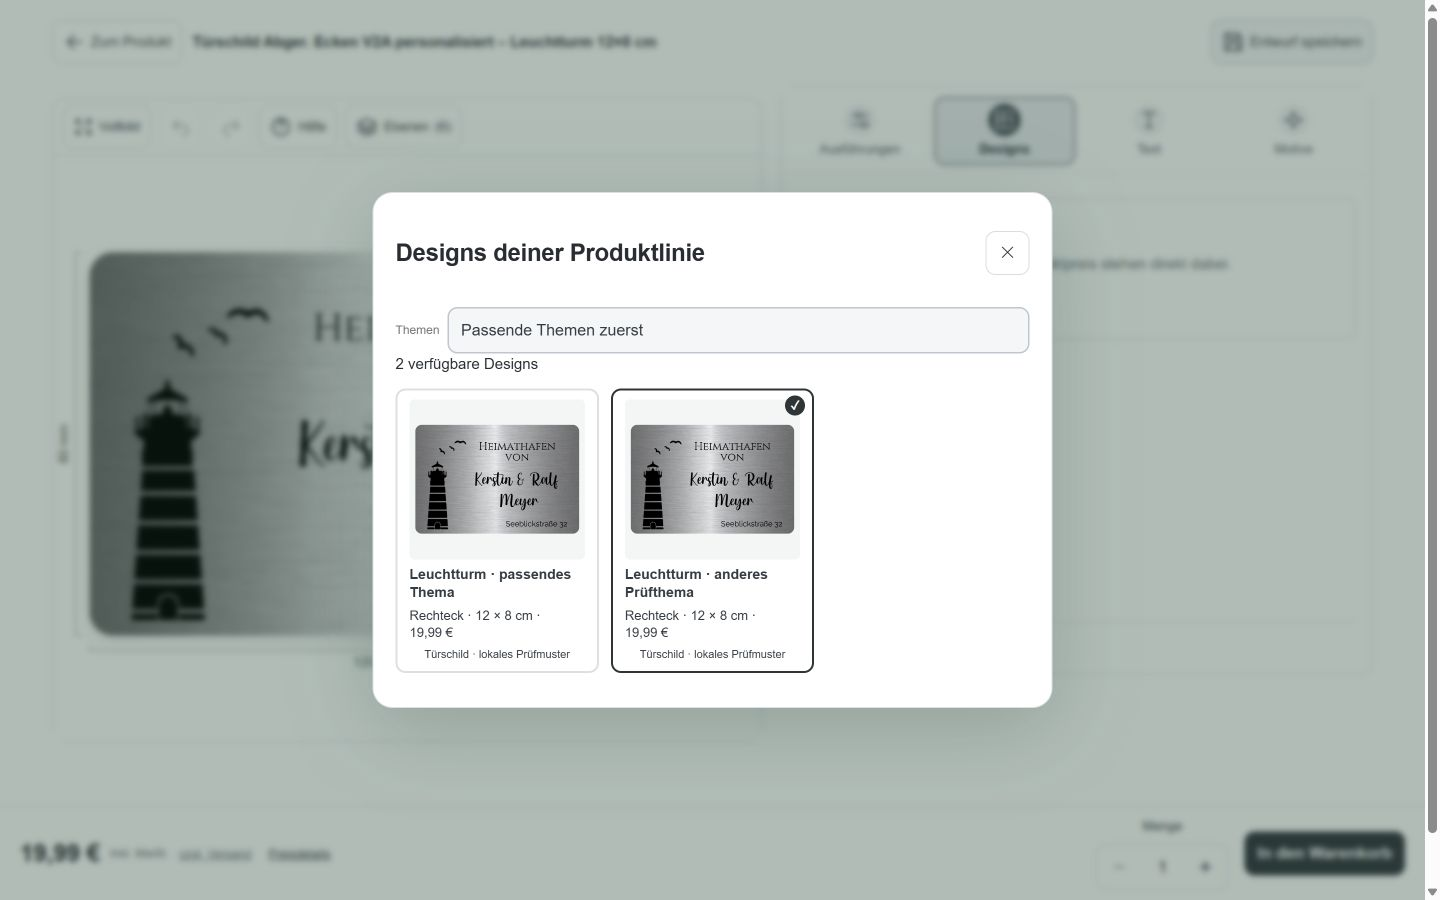
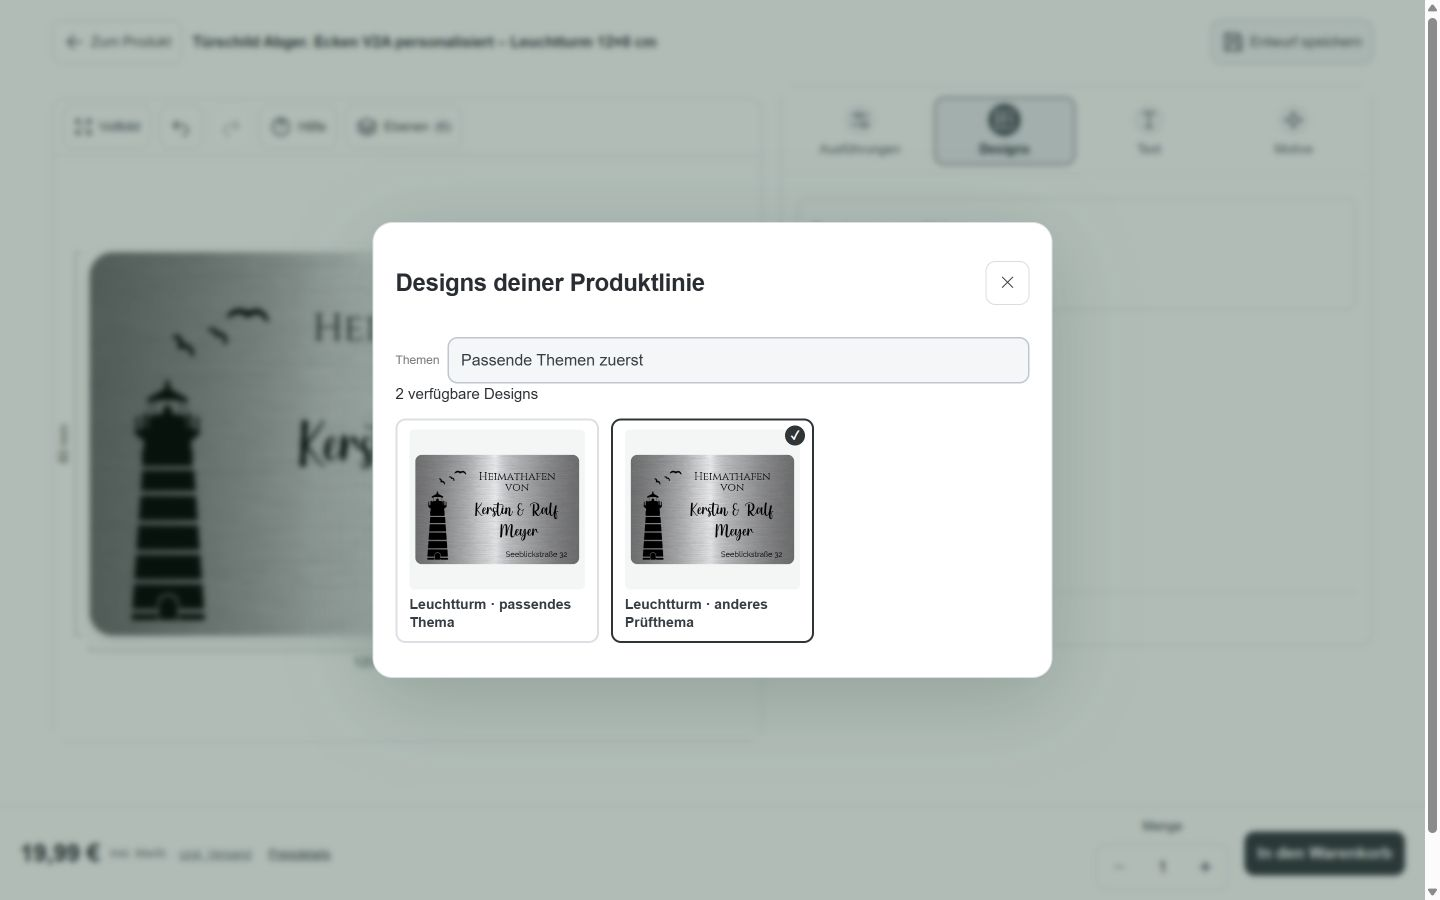
Simplify design gallery tiles to preview and design name

Changed region(s): [[0.25, 0.1867, 0.75, 0.8089], [0.7188, 0.28, 0.8438, 0.3111]]

diff --git a/app/configurator/variant-m/product-design-gallery.css b/app/configurator/variant-m/product-design-gallery.css
@@ -5,7 +5,7 @@
 .ux-product-designs-dialog{width:min(900px,calc(100vw - 24px));max-height:90dvh;overflow:auto}
 .ux-product-grid{display:grid;grid-template-columns:repeat(3,minmax(0,1fr));gap:12px;margin:12px 0}
 .ux-product-card{position:relative;display:flex;flex-direction:column;gap:6px;text-align:left;background:#fff;border:2px solid #e0e2e3;border-radius:10px;padding:8px;color:#2f3437;cursor:pointer;font:inherit}
-.ux-product-card img{display:block;width:100%;height:160px;object-fit:contain;background:#f4f5f5;border-radius:5px}.ux-product-card strong{font-size:14px}.ux-product-card span{font-size:13px}.ux-product-card small{font-size:11px;line-height:1.3}
+.ux-product-card img{display:block;width:100%;height:160px;object-fit:contain;background:#f4f5f5;border-radius:5px}.ux-product-card strong{font-size:14px}.ux-product-card span{font-size:13px}
 .ux-product-card:hover{border-color:#aeb4b7}.ux-product-card[aria-pressed=true]{border-color:#2f3437}.ux-product-card .completion-check{position:absolute;right:12px;top:12px;display:none}.ux-product-card[aria-pressed=true] .completion-check{display:block}
 :host([data-ux-layout]) button.ux-product-card:not([aria-pressed=true])>.completion-check{display:none!important}
 .ux-product-status,.ux-product-summary{font-size:14px;line-height:1.5}.ux-product-actions{display:flex;justify-content:flex-end;gap:10px;flex-wrap:wrap}.ux-product-actions [data-product-confirm]{background:#2f3437;color:#fff;border-color:#2f3437}.ux-product-result{padding:10px;background:#f4f5f5;border-radius:6px}

diff --git a/docs/handoffs/2026-10-29-konfi-ux-nachtrag6-astra-bericht.md b/docs/handoffs/2026-10-29-konfi-ux-nachtrag6-astra-bericht.md
@@ -2,6 +2,12 @@
 
 Stand: 29.10.2026. Ergänzung zu PR #42 auf bfbd9188ac4446611bc5e71b55b74c804aec5767; gemeinsam mit der kleinen Mausrad-Korrektur für PR #43 geprüft. Nur Code, Tests und Dokumentation. Kein Import, keine Freigabe, keine Shopify-Änderung, kein Livegang.
 
+## Zusatzwunsch von Chris: reine Designkacheln
+
+29.10.2026: Die Kacheln zeigen nur Vorschau und Designname. Zusätzliche Preis-, Form-, Größen- und Produktzeilen entfallen; auch der Einstieg kündigt diese Angaben nicht mehr an. Preis-/Größeninformation bei der Bestätigung eines tatsächlichen Produktwechsels bleibt dort erhalten. Keine Preisberechnung oder Zielbindung geändert.
+
+Prüfung nach dieser kleinen Darstellungsänderung: 8/8 vorhandene Tests zu Textübernahme und Designwechsel bestanden; PR-42-Build und kombinierter Build erfolgreich. Desktop 1440 × 900 und Handy 390 × 664 / 375 × 548 erneut im lokalen Browser geprüft, Bilder ersetzt. Die vorherigen 122 gezielten Tests und der Vollauf unten beziehen sich auf den Stand vor dieser Textreduktion; kein erneuter Vollauf für diese reine Darstellungsänderung.
+
 ## Ergebnis
 
 - Normale Produkte werden über die gespeicherte Katalog-Kategorie linie-<id> zugeordnet. Namen, Shopify-Titel und Profilnamen werden nicht als Linienkennung geraten.

diff --git a/docs/handoffs/konfi-galerie-linie-20261029-astra/README.md b/docs/handoffs/konfi-galerie-linie-20261029-astra/README.md
@@ -1,8 +1,8 @@
 # Galerie je Linie und Klingelmodell · lokale Bildnachweise
 
-Stand: 29.10.2026. Chromium, tatsächlicher kombinierter Build aus PR #42/#43. Desktop 1440 × 900, iPhone-13-Format 390 × 664, SE-Format 375 × 548. Kein Live- oder Safari-Nachweis.
+Stand: 29.10.2026, nach Chris' Wunsch nach reinen Designkacheln. Nur Vorschau und Designname; keine zusätzliche Preis-, Format- oder Produktzeile. Chromium, tatsächlicher kombinierter Build aus PR #42/#43. Desktop 1440 × 900, iPhone-13-Format 390 × 664, SE-Format 375 × 548. Kein Live- oder Safari-Nachweis.
 
-Ein lokaler gemischter Bestand verwendet die echte Galerie-/Token-/Vorschaufunktion. Türschild-Vorlage D8; Themen und Geräte A/B sind Prüfdaten, Geräteillustration mit TEST gekennzeichnet. Preisangaben der Klingelprüfmuster sind Testwerte. Die dritte Klingelkachel ist auf dem Handy durch Scrollen erreichbar.
+Ein lokaler gemischter Bestand verwendet die echte Galerie-/Token-/Vorschaufunktion. Türschild-Vorlage D8; Themen und Geräte A/B sind Prüfdaten, Geräteillustration mit TEST gekennzeichnet. Die dritte Klingelkachel ist auf dem Handy durch Scrollen erreichbar.
 
 ## desktop-linie.jpg
 

diff --git a/STATUS.md b/STATUS.md
@@ -1,3 +1,8 @@
+## 29.10.2026 · Codex / Astra · PR #42: Designkacheln vereinfacht (Chris)
+
+- Kacheln nur mit Vorschau und Designname; zusätzliche Preis-, Form-, Größen- und Produkttexte entfernt. Einstiegstext angepasst. Keine Live-Änderung.
+- 8/8 vorhandene Textübernahme-/Designwechsel-Tests bestanden, PR-42- und kombinierter Build erfolgreich; sieben Desktop-/Handybilder aktualisiert. Frühere Vollauf-Zähler bleiben dem vorherigen Stand zugeordnet. [Bericht](docs/handoffs/2026-10-29-konfi-ux-nachtrag6-astra-bericht.md).
+
 ## 29.10.2026 · Codex / Astra · Nachtrag 6: Galerie je Linie und Klingelmodell (PR #42, nur Review)
 
 - Eigene Katalog-Linie; Funkklingeln nur innerhalb desselben gespeicherten Geräte-Modells. Material-/Verfahrenswechsel nur mit ausdrücklichem Paket-M-Zielbeleg. Themenpriorität und „Alle Themen“, signierte Quell-/Linienbindung und erneute Zielprüfung.
